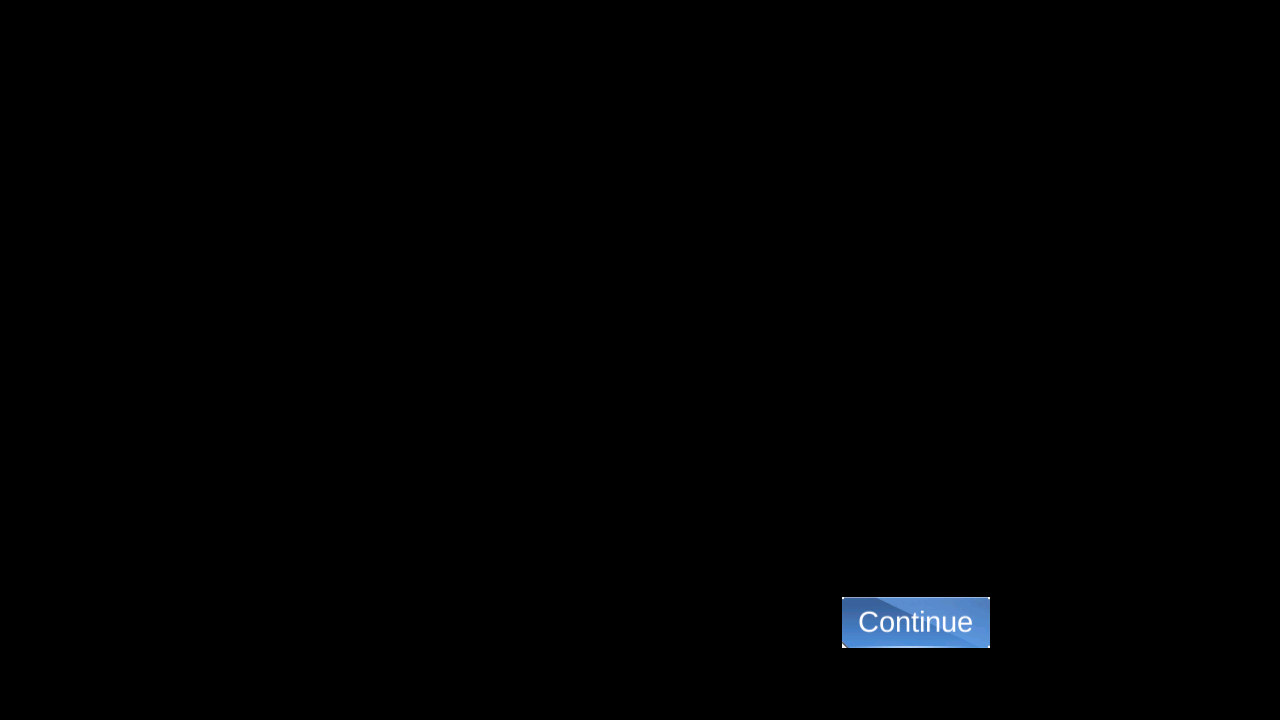
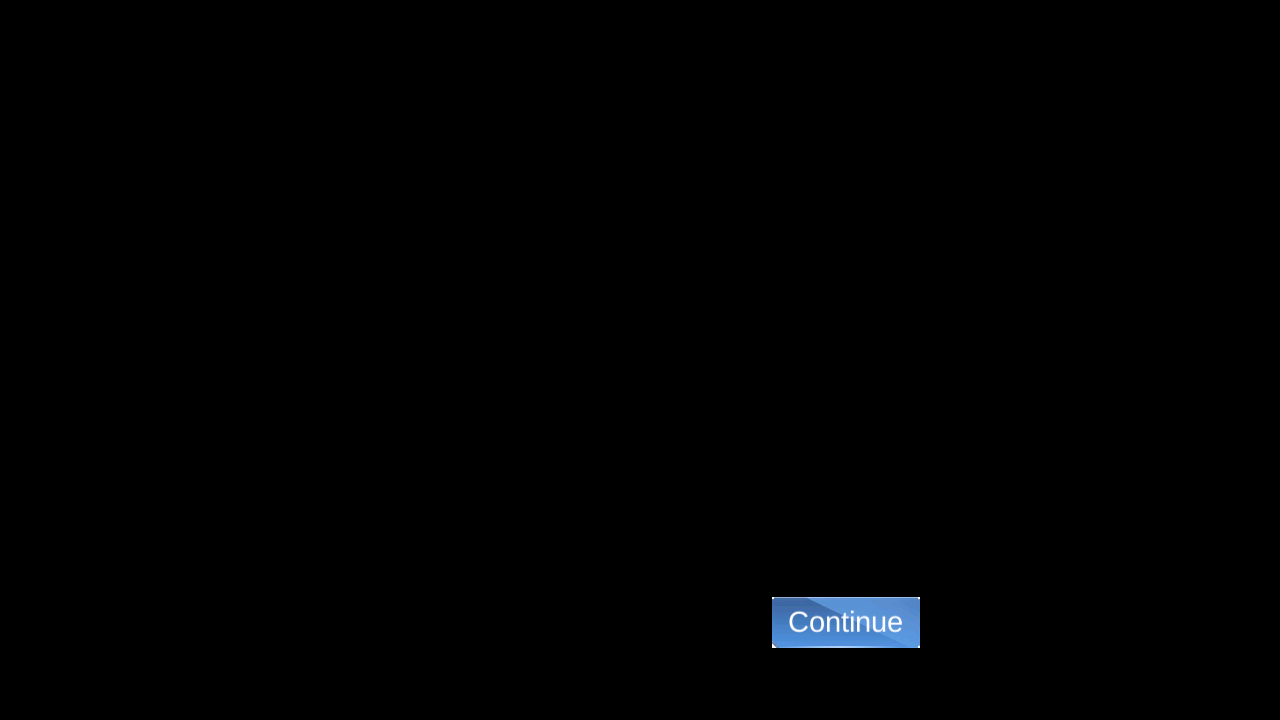
fix: fix english handler autosearch assets

Changed region(s): [[0.5938, 0.825, 0.7812, 0.9167]]

diff --git a/module/handler/assets.py b/module/handler/assets.py
@@ -6,8 +6,8 @@ from module.base.template import Template
 
 AUTO_SEARCH_MAP_OPTION_OFF = Button(area={'cn': (1205, 549, 1275, 566), 'en': (1203, 552, 1277, 564), 'jp': (1204, 547, 1276, 568), 'tw': (1205, 546, 1275, 567)}, color={'cn': (196, 169, 169), 'en': (151, 132, 138), 'jp': (179, 153, 156), 'tw': (153, 132, 137)}, button={'cn': (1205, 549, 1275, 566), 'en': (1203, 552, 1277, 564), 'jp': (1204, 547, 1276, 568), 'tw': (1205, 546, 1275, 567)}, file={'cn': './assets/cn/handler/AUTO_SEARCH_MAP_OPTION_OFF.png', 'en': './assets/en/handler/AUTO_SEARCH_MAP_OPTION_OFF.png', 'jp': './assets/jp/handler/AUTO_SEARCH_MAP_OPTION_OFF.png', 'tw': './assets/tw/handler/AUTO_SEARCH_MAP_OPTION_OFF.png'})
 AUTO_SEARCH_MAP_OPTION_ON = Button(area={'cn': (1205, 549, 1275, 566), 'en': (1203, 552, 1277, 564), 'jp': (1203, 547, 1276, 568), 'tw': (1204, 546, 1276, 567)}, color={'cn': (149, 176, 193), 'en': (113, 135, 157), 'jp': (132, 158, 177), 'tw': (110, 133, 156)}, button={'cn': (1205, 549, 1275, 566), 'en': (1203, 552, 1277, 564), 'jp': (1203, 547, 1276, 568), 'tw': (1204, 546, 1276, 567)}, file={'cn': './assets/cn/handler/AUTO_SEARCH_MAP_OPTION_ON.png', 'en': './assets/en/handler/AUTO_SEARCH_MAP_OPTION_ON.png', 'jp': './assets/jp/handler/AUTO_SEARCH_MAP_OPTION_ON.png', 'tw': './assets/tw/handler/AUTO_SEARCH_MAP_OPTION_ON.png'})
-AUTO_SEARCH_MENU_CONTINUE = Button(area={'cn': (773, 598, 919, 646), 'en': (842, 597, 990, 648), 'jp': (845, 597, 990, 646), 'tw': (801, 530, 975, 589)}, color={'cn': (111, 157, 214), 'en': (97, 144, 204), 'jp': (107, 151, 207), 'tw': (109, 157, 215)}, button={'cn': (773, 598, 919, 646), 'en': (842, 597, 990, 648), 'jp': (845, 597, 990, 646), 'tw': (801, 530, 975, 589)}, file={'cn': './assets/cn/handler/AUTO_SEARCH_MENU_CONTINUE.png', 'en': './assets/en/handler/AUTO_SEARCH_MENU_CONTINUE.png', 'jp': './assets/jp/handler/AUTO_SEARCH_MENU_CONTINUE.png', 'tw': './assets/tw/handler/AUTO_SEARCH_MENU_CONTINUE.png'})
-AUTO_SEARCH_MENU_EXIT = Button(area={'cn': (373, 598, 520, 647), 'en': (302, 597, 451, 648), 'jp': (305, 597, 451, 645), 'tw': (311, 531, 484, 588)}, color={'cn': (171, 173, 176), 'en': (164, 165, 167), 'jp': (164, 165, 168), 'tw': (172, 174, 177)}, button={'cn': (373, 598, 520, 647), 'en': (302, 597, 451, 648), 'jp': (305, 597, 451, 645), 'tw': (311, 531, 484, 588)}, file={'cn': './assets/cn/handler/AUTO_SEARCH_MENU_EXIT.png', 'en': './assets/en/handler/AUTO_SEARCH_MENU_EXIT.png', 'jp': './assets/jp/handler/AUTO_SEARCH_MENU_EXIT.png', 'tw': './assets/tw/handler/AUTO_SEARCH_MENU_EXIT.png'})
+AUTO_SEARCH_MENU_CONTINUE = Button(area={'cn': (773, 598, 919, 646), 'en': (772, 597, 920, 648), 'jp': (845, 597, 990, 646), 'tw': (801, 530, 975, 589)}, color={'cn': (111, 157, 214), 'en': (97, 144, 204), 'jp': (107, 151, 207), 'tw': (109, 157, 215)}, button={'cn': (773, 598, 919, 646), 'en': (842, 597, 990, 648), 'jp': (845, 597, 990, 646), 'tw': (801, 530, 975, 589)}, file={'cn': './assets/cn/handler/AUTO_SEARCH_MENU_CONTINUE.png', 'en': './assets/en/handler/AUTO_SEARCH_MENU_CONTINUE.png', 'jp': './assets/jp/handler/AUTO_SEARCH_MENU_CONTINUE.png', 'tw': './assets/tw/handler/AUTO_SEARCH_MENU_CONTINUE.png'})
+AUTO_SEARCH_MENU_EXIT = Button(area={'cn': (373, 598, 520, 647), 'en': (372, 597, 521, 648), 'jp': (305, 597, 451, 645), 'tw': (311, 531, 484, 588)}, color={'cn': (171, 173, 176), 'en': (164, 165, 167), 'jp': (164, 165, 168), 'tw': (172, 174, 177)}, button={'cn': (373, 598, 520, 647), 'en': (302, 597, 451, 648), 'jp': (305, 597, 451, 645), 'tw': (311, 531, 484, 588)}, file={'cn': './assets/cn/handler/AUTO_SEARCH_MENU_EXIT.png', 'en': './assets/en/handler/AUTO_SEARCH_MENU_EXIT.png', 'jp': './assets/jp/handler/AUTO_SEARCH_MENU_EXIT.png', 'tw': './assets/tw/handler/AUTO_SEARCH_MENU_EXIT.png'})
 AUTO_SEARCH_OFF = Button(area={'cn': (869, 588, 885, 604), 'en': (824, 588, 840, 604), 'jp': (869, 588, 885, 604), 'tw': (869, 588, 885, 604)}, color={'cn': (96, 97, 102), 'en': (110, 110, 115), 'jp': (96, 97, 102), 'tw': (96, 97, 102)}, button={'cn': (869, 588, 885, 604), 'en': (824, 588, 840, 604), 'jp': (869, 588, 885, 604), 'tw': (869, 588, 885, 604)}, file={'cn': './assets/cn/handler/AUTO_SEARCH_OFF.png', 'en': './assets/en/handler/AUTO_SEARCH_OFF.png', 'jp': './assets/jp/handler/AUTO_SEARCH_OFF.png', 'tw': './assets/tw/handler/AUTO_SEARCH_OFF.png'})
 AUTO_SEARCH_ON = Button(area={'cn': (869, 588, 885, 604), 'en': (824, 588, 840, 604), 'jp': (869, 588, 885, 604), 'tw': (869, 588, 885, 604)}, color={'cn': (139, 167, 119), 'en': (143, 171, 123), 'jp': (139, 167, 119), 'tw': (139, 167, 119)}, button={'cn': (869, 588, 885, 604), 'en': (824, 588, 840, 604), 'jp': (869, 588, 885, 604), 'tw': (869, 588, 885, 604)}, file={'cn': './assets/cn/handler/AUTO_SEARCH_ON.png', 'en': './assets/en/handler/AUTO_SEARCH_ON.png', 'jp': './assets/jp/handler/AUTO_SEARCH_ON.png', 'tw': './assets/tw/handler/AUTO_SEARCH_ON.png'})
 AUTO_SEARCH_SET_ALL = Button(area={'cn': (830, 189, 849, 207), 'en': (813, 192, 832, 210), 'jp': (813, 192, 832, 210), 'tw': (813, 192, 832, 210)}, color={'cn': (38, 39, 40), 'en': (78, 107, 57), 'jp': (78, 107, 57), 'tw': (78, 107, 57)}, button={'cn': (830, 189, 849, 207), 'en': (813, 192, 832, 210), 'jp': (813, 192, 832, 210), 'tw': (813, 192, 832, 210)}, file={'cn': './assets/cn/handler/AUTO_SEARCH_SET_ALL.png', 'en': './assets/en/handler/AUTO_SEARCH_SET_ALL.png', 'jp': './assets/jp/handler/AUTO_SEARCH_SET_ALL.png', 'tw': './assets/tw/handler/AUTO_SEARCH_SET_ALL.png'})
